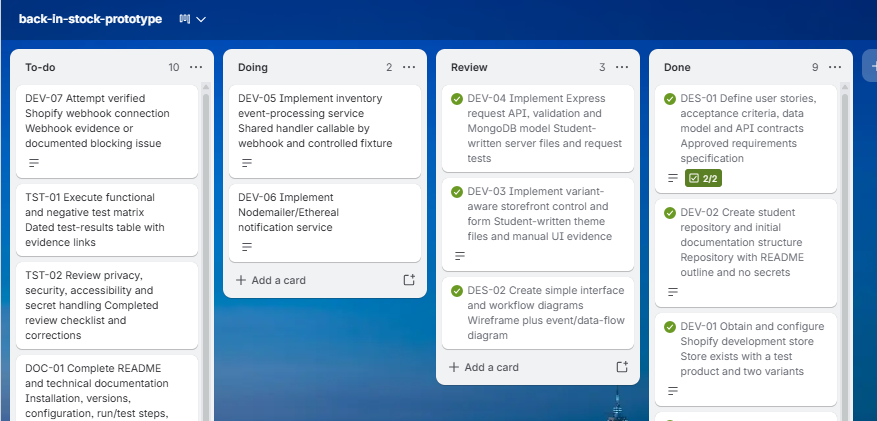
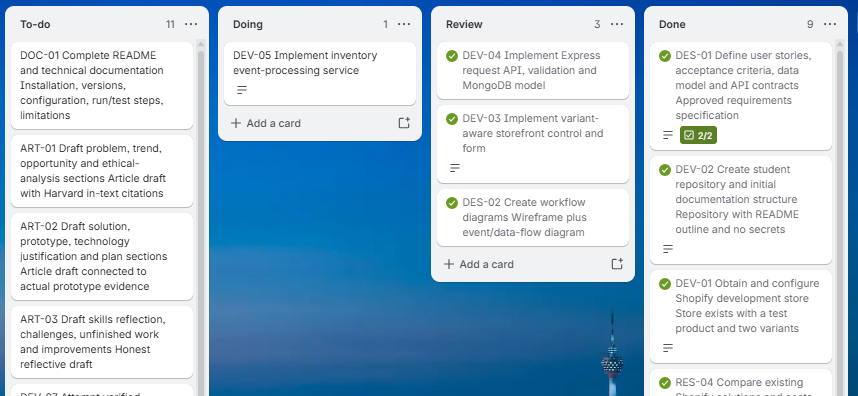
doc. last review on Article

diff --git a/Documentation/16097_BorgesAmaral_Lorena_ISK1002_A2.md b/Documentation/16097_BorgesAmaral_Lorena_ISK1002_A2.md
@@ -1,10 +1,12 @@
 # Building a Privacy-Conscious Back-in-Stock Notification Prototype for Shopify with Node.js, Express, and MongoDB
 
+## Author: Lorena Borges Amaral
+
 ## Introduction
 
 One of the most common frustrations for e-commerce retailers is losing a sale because a customer finds that the product they wish to purchase is out of stock. In some market niches, customers may return periodically to check whether the item has been restocked. In others, however, customers abandon the purchase altogether and turn to a competitor, often never returning to the original website.
 
-To explore this problem, I developed a prototype Back-in-Stock Notification System using Node.js, Express, and MongoDB. The prototype was designed from an Entity Relationship Diagram (ERD) and focuses on the core workflow of registering notification requests and matching those requests against future inventory updates.
+To explore this problem, was developed a Minimum Viable Product (MVP) prototype Back-in-Stock Notification System using Node.js, Express, and MongoDB. The prototype was designed from an Entity Relationship Diagram (ERD) and focuses on the core workflow of registering notification requests and matching those requests against future inventory updates.
 
 This article explains the problem addressed by the project, the technical and ethical considerations involved, the implementation choices made, the lessons learned throughout development, and areas for future improvement.
 
@@ -14,23 +16,22 @@ Stockouts are a common problem in e-commerce. When a product is unavailable, cus
 
 ![Shopify product page displaying an Ice variant product in a sold out state with a disabled Sold Out button, demonstrating the customer experience when inventory is unavailable](../_img/backInStock_ProductSoldOut_button.png) *Figure 1. Product Variant - Ice - Unavailable, Sold Out Button*
 
-To address this, merchants need a way to tell customers when a product is available again. This project created a Minimum Viable Product (MVP) prototype. It uses a Node.js, Express server, and a MongoDB database. It uses invented data and a controlled test event to simulate a restock, focusing on the core logic rather than building a full commercial app.
+To address this, merchants need a way to tell customers when a product is available again. It uses a Node.js, Express server, and a MongoDB database. It uses invented data and a controlled test event to simulate a restock, focusing on the core logic rather than building a full commercial app.
 
 ![Future impletation for Shopify product page displaying an Ice variant product in a sold out state with a Notifyme button, demonstrating the customer experience](../_img/backInStock_ProductSoldOut_NotifymeButton.png) *Figure 2. Product Variant - Ice - Unavailable, but now with Notify me Button*
 
 
 ## 2. Existing Industry Solutions
 
+There are existing commercial apps available in Shopify App Store, such as Notify Me! Back in Stock Alert [2], Swym Corporation (n.d.)[3], and Appikon Software Pvt Ltd (n.d.) [4], that offer that back-in-stock products notification email and  offer other features like SMS alerts, analytics, and theme customization. But frequently they offer much more than a store needs, and charge for all those features. It can be expensive for a small store.
 
-Existing Shopify App Store listings from Notify Me! [2], Swym Corporation (n.d.)[3], and Appikon Software Pvt Ltd (n.d.) [4] show that commercial back-in-stock products already exist. 
-
-These commercial apps offer many features like SMS alerts, analytics, and theme customization. But frequently they offer much more than a store needs, and charge for all those features. It can be expensive for a small store.
+For example, Notify Me! Back in Stock Alert [2], developed by Notify Me!, provides “Notify Me,” “Pre-Order,” and “Wishlist” buttons for out-of-stock products. It can automatically send restock notifications via email, SMS, or push notifications, while also supporting D2C and B2B pre-orders with features such as discounts, customer notes, and partial payments. However, many of these features may be unnecessary for a small startup business. Although a free plan is available, it is limited to just 10 restock notifications. For most online stores, this allowance is likely insufficient, requiring merchants to pay a monthly subscription fee for a product whose extensive feature set they may only use minimally, making it a poor value proposition.
 
 This prototype project does not try to compete with them. Instead, it deliberately reduces the scope to study how the core event and data workflow operates.
 
 ## 3. Technical Issues and Design Choices
 
-To keep the scope manageable and deliver a feasible prototype, this application implements only the backend logic for a stock notification system. The prototype does not send notification emails; instead, it focuses on detecting when a customer has requested a notification and determining whether a positive inventory event should trigger that request. Despite its reduced scope, the system must solve several important technical challenges:
+To keep the scope manageable and deliver a feasible prototype, this application implements only the backend logic for a stock notification system. The front-end logic will be discuss in the Future Improvements.The prototype does not send notification emails; instead, it focuses on detecting when a customer has requested a notification and determining whether a positive inventory event should trigger that request. Despite its reduced scope, the system must solve several important technical challenges:
 
 - **Input Validation:** Customers must provide a valid email address and consent to its use for future notifications. To prevent invalid data from entering the system, validation middleware is applied before any data is written to MongoDB. Requests containing malformed email addresses or unsupported fields are rejected with an HTTP 400 response.
 
@@ -112,32 +113,19 @@ The project was planned using a Trello board with the stages **To Do**, **Doing*
 | Inventory-event processing and controlled fixture testing |  Demonstrate matching, validation, and duplicate-event handling. |
 | Email attempt, documentation, article drafting, and final review |Record outcomes honestly, prepare the README, write the article, and complete the evidence and privacy review. |
 
-### Testing Results
-
-Testing focused on the core event-processing logic using controlled, invented data. The following results are recorded in the project evidence log:
-
-| Test Scenario | Expected Result | Actual Result |
-|---------------|-----------------|---------------|
-| Positive matching event | Store the event and transition one matching pending request to `matched`. | Processed, matched 1, transitioned 1. |
-| Duplicate event delivery | Do not repeat the transition. | Duplicate recognized; no second transition. |
-| Zero stock event | Do not notify. | Ignored; request stayed pending. |
-| Invalid availability value | Reject request. | HTTP 400 error; no event recorded. |
-
 ## 8. Student Reflection, Limitations and What Was Attempted
 
-The first step in building a project is identifying a real problem that needs a solution. For this project, the problem came from my interest in e-commerce and customer experience. I wanted to create a notification system that could help customers know when an out-of-stock product becomes available again. At the same time, I wanted to apply concepts learned during my web development studies, including API development, data modelling, database design, and backend architecture.
+The first step in building a project is identifying a real problem that needs a solution. For this project, the problem came from my interest in e-commerce and customer experience. As I am a e-commerce retailer, I wanted to create a notification system that could help me to notify my customers know when an out-of-stock product becomes available again. At the same time, I wanted to apply concepts learned during my web development studies, including API development, data modelling, database design, and backend architecture.
 
 Before starting this project, I had already completed a full-stack MERN application. Because of that experience, I was already familiar with JavaScript, REST APIs, MongoDB, Express, and designing systems from an ERD. The challenge was not learning these technologies from the beginning, but rather thinking carefully about all the possible business rules and edge cases that could occur, even within a very small prototype scope. This project reinforced that designing a system is not only about building functionality but also about anticipating how the system should behave in different scenarios.
 
 One of the most important learning areas was data modelling. The prototype required a clear distinction between a customer NotificationRequest, an incoming ProcessedInventoryEvent, a unique delivery identifier, request statuses, and inventory references. Mapping these concepts from the ERD into MongoDB collections and Mongoose schemas helped me better understand how application requirements influence database design.
 
-Another important lesson was reliability in software systems. The project included duplicate-event detection using a unique deliveryId. This helped me understand the concept of idempotency, where the same event should not be able to change the system state multiple times if it is received more than once. Although the application is relatively small, this reflects a real-world concern in event-driven systems and distributed applications.
+Another important lesson was reliability in software systems. The project included duplicate-event detection using a unique `deliveryId`. This helped me understand the concept of idempotency, where the same event should not be able to change the system state multiple times if it is received more than once. Although the application is relatively small, this reflects a real-world concern in event-driven systems and distributed applications.
 
-During development, I encountered several technical challenges. One issue involved MongoDB and Mongoose indexes, where an index conflict prevented the application from behaving as expected. Another challenge occurred during inventory matching when notification requests could not be matched because the inventory item identifiers did not correspond correctly. Debugging these problems required careful testing, reviewing database records, and validating assumptions about the data model.
+The most significant technical challenge was the implementation of email delivery using `Nodemailer` and `Ethereal`. The original goal was to send notification emails when matching inventory became available. The test email component generated a valid `Ethereal` configuration that was consistent with `Nodemailer`, but transport verification failed during the local `Node.js` socket connection stage, producing ESOCKET and connection-related errors before authentication could occur. Additional testing confirmed that the target port was reachable, suggesting that the issue was occurring between the local `Node.js` environment and the `Nodemailer` transport configuration. To protect the project scope and timeline, further debugging was postponed. Therefore, no claim of successful email notification delivery is made in this project.
 
-The most significant technical challenge was the implementation of email delivery using Nodemailer and Ethereal. The original goal was to send notification emails when matching inventory became available. The test email component generated a valid Ethereal configuration that was consistent with Nodemailer, but transport verification failed during the local Node.js socket connection stage, producing ESOCKET and connection-related errors before authentication could occur. Additional testing confirmed that the target port was reachable, suggesting that the issue was occurring between the local Node.js environment and the Nodemailer transport configuration. To protect the project scope and timeline, further debugging was postponed. Therefore, no claim of successful email notification delivery is made in this project.
-
-This experience also taught me an important lesson about scope management. Initially, I intended to include a complete email notification workflow, but I realised that continuing to debug an external integration could take significant time away from the primary objective of the project. Instead, I focused on completing and validating the core business workflow. The current prototype successfully registers notification requests, validates incoming data, records inventory events, prevents duplicate processing, matches inventory against pending requests, and updates matching requests from pending to matched. Email delivery remains clearly documented as a future enhancement rather than being presented as a completed feature.
+This experience also taught me an important lesson about scope management. Initially, I intended to include a complete email notification workflow, but I realised that continuing to debug an external integration could take significant time away from the primary objective of the project. Instead, I focused on completing and validating the core business workflow.
 
 Overall, this project helped me strengthen my understanding of backend development, database design, validation, event processing, and API architecture. It also reinforced the importance of planning realistic project scopes, documenting limitations honestly, and prioritising core functionality before adding advanced features. While the prototype does not yet provide a complete production-ready solution, it successfully demonstrates the main workflow required for a back-in-stock notification system and provides a solid foundation for future development.
 
@@ -148,15 +136,9 @@ Although the prototype successfully demonstrates the core inventory-event matchi
 
 One important enhancement would be Shopify webhook integration. The current implementation uses a controlled inventory-event fixture to simulate stock updates. A future version should receive real inventory events directly from Shopify webhooks, allowing the system to operate in a production environment and respond automatically to stock changes.
 
-Another significant improvement is email notification delivery. The original objective included notifying customers when inventory becomes available; however, email delivery was deferred due to technical challenges encountered with the development SMTP environment. Future work could integrate a production-ready email service and extend the notification lifecycle from pending to matched and finally to sent.
+Another significant improvement is email notification delivery. The original objective included notifying customers when inventory becomes available. Future work could integrate a production-ready email service and extend the notification lifecycle from pending to matched and finally to sent.
 
-The project could also benefit from retry mechanisms for failed notifications. In a production system, temporary failures such as network interruptions or service outages should not prevent customers from receiving notifications. Implementing controlled retry logic would improve reliability and fault tolerance.
-
-Finally, queue-based event processing could be introduced to improve scalability and performance. Rather than processing inventory events immediately within the API request, events could be placed in a queue and processed asynchronously. This approach would support higher transaction volumes and better reflect modern event-driven architectures used in large-scale e-commerce platforms.
-
-While these features remain outside the scope of the current MVP, the existing prototype provides a solid foundation for future development. The core data model, validation rules, event-processing workflow, and request-matching logic have been implemented and tested, making it easier to extend the system with additional functionality in later iterations.
-
-## References
+## 10. References
 
 [1] Dadzie, K.Q. and Winston, E. (2007) ‘Consumer response to stock-out in the online supply chain’, International Journal of Physical Distribution & Logistics Management, 37(1), pp. 19–42. Available at: https://www.emerald.com/ijpdlm/article/37/1/19/162646 (Accessed: 20 July 2026).
 

diff --git a/README.md b/README.md
@@ -12,9 +12,9 @@
 
 ## 1. Project Overview
 
-This project is a prototype REST API built with Node.js, Express, and MongoDB. It demonstrates how a back-in-stock notification workflow can be implemented from an Entity Relationship Diagram (ERD).
+This project is a Minimum Viable Product (MVP) prototype built with Node.js, Express, and MongoDB,implemented from an Entity Relationship Diagram (ERD).
 
-The application allows:
+The MVP prototype application allows:
 
 1. Customers to register interest in an out-of-stock product variant.
 2. Inventory events to be recorded.